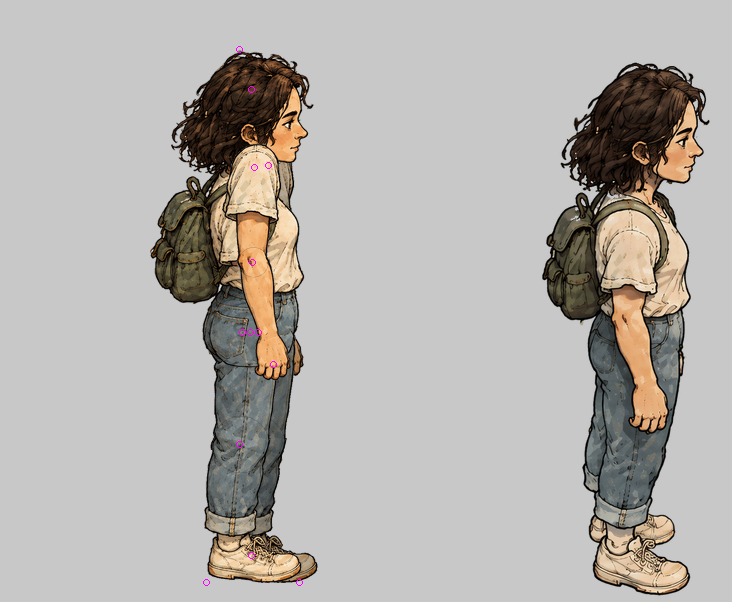
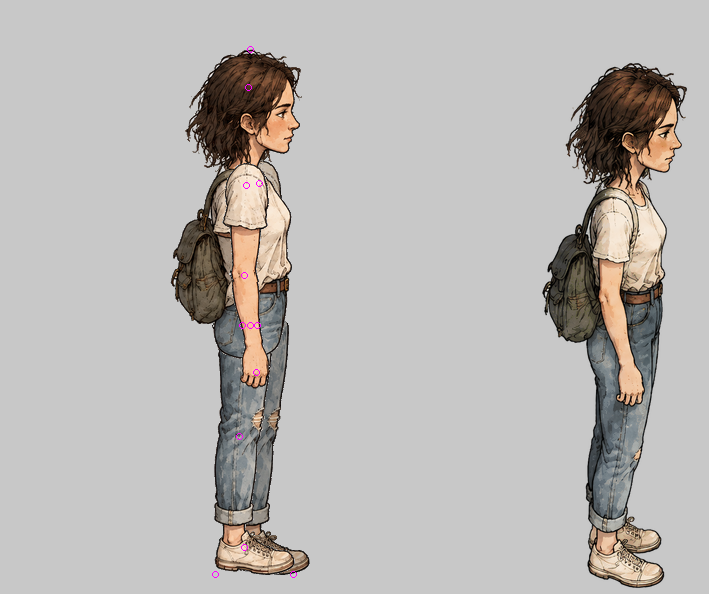
D-27: риг на взрослой героине G (лист частей G-2, ткань на плече; правки критика в промпте), склейки ядро | Seedance D-25; Polza 12 ₽ всего

Changed region(s): [[0.1862, 0.0606, 0.4344, 0.9697], [0.7447, 0.0909, 0.9929, 1.0]]

diff --git a/tools/art/d27_prompts.py b/tools/art/d27_prompts.py
@@ -14,6 +14,7 @@ from style import STYLE, BG_GREY  # noqa: E402
 
 # D-24b: героиня взрослая, вариант G (README «Героиня взрослая»), плюс три правки независимого критика к следующему набору (координатор,
 # 2026-10-09): футболка заправлена только спереди, тёмные почти чёрно-каштановые волнистые волосы до плеч, голова прямо, плечи расслаблены.
+# Тело — с культей рукава из ткани: «без рукава» GPT рисует голое плечо, и на махе руки оно читается дырой (D-27, лист G-1).
 WHO = ('the SAME young adult woman as in the reference image — about 20 years old, slender, adult proportions (head-to-height about 1:4.7), '
        'a narrow oval adult face with a defined jaw and cheekbones, small narrow eyes, not a child; '
        'dark brown, almost black-brown, loose wavy shoulder-length hair; '
@@ -26,8 +27,9 @@ PARTS = (
     'Strict side view facing right, seen from a slightly high angle like an isometric game (Don\'t Starve). '
     'Exactly three separate pieces in one horizontal row with very wide empty gaps between them; no piece touches another: '
     '(1) LEFT — the BODY WITHOUT ARMS AND WITHOUT LEGS: head upright, chin level, relaxed shoulders; hair and face in profile, neck, the t-shirt torso with the backpack, '
-    'and the top of the jeans around the hips and seat, ending just below the hips in a clean rounded edge; the shoulder is whole and smooth with NO sleeve on it '
-    '(the sleeve belongs to the arm piece), no arm and no sleeve hole. '
+    'and the top of the jeans around the hips and seat, ending just below the hips in a clean rounded edge; the shoulder and the side of the chest are covered by the white t-shirt fabric — '
+    'a short t-shirt sleeve stub closed with fabric where the arm would join, NO bare skin on the shoulder, no arm and no hole. '
+    'The hair is dark brown, almost black-brown. '
     '(2) MIDDLE — ONE COMPLETE LEG standing perfectly straight and vertical: the jeans from the top of the thigh at the hip down to the rolled-up cuff, '
     'and the sneaker in side view with the toe pointing right, the sole flat and level. '
     '(3) RIGHT — ONE COMPLETE ARM hanging perfectly straight down: the short t-shirt sleeve at the top, the bare upper arm, the elbow, the forearm and a relaxed loose fist. '

diff --git a/tools/art/d27_sheets.py b/tools/art/d27_sheets.py
@@ -34,13 +34,20 @@ def label(img, text, size=16):
     return img
 
 
+VIDEO = SPR
+
+
 def video_frame(phase, n=12):
-    """Кадр видео-цикла D-25 по фазе пути (как BillboardSprite: 1 … N-1 на цикл; у героини 12 кадров side_1..12)."""
+    """Кадр видео-цикла D-25 по фазе пути (12 кадров side_1..12 героини D; после D-24b их нет в master — `--video-dir`,
+    достать: `git archive 7df35a62 ZeldaDaughter/Assets/Art/Sprites/heroine`)."""
     k = 1 + int(phase * n) % n
-    return Image.open(SPR / f'heroine_side_{k}.png').convert('RGBA')
+    return Image.open(VIDEO / f'heroine_side_{k}.png').convert('RGBA')
 
 
 def core(a):
+    global VIDEO
+    if a.video_dir:
+        VIDEO = pathlib.Path(a.video_dir)
     rig = json.loads(pathlib.Path(a.rig).read_text(encoding='utf-8'))
     atlas = np.array(Image.open(pathlib.Path(a.rig).with_name(rig['atlas']['file'])).convert('RGBA'))
     tr = json.loads(pathlib.Path(a.trace).read_text(encoding='utf-8'))
@@ -58,7 +65,7 @@ def core(a):
         pairs.append((r, vc))
     out = pathlib.Path(a.out)
     out.parent.mkdir(parents=True, exist_ok=True)
-    write(pairs, out, ('риг (ядро)', 'видео D-25'), a)
+    write(pairs, out, ('риг (ядро), героиня G', 'видео-кадры D-25 Seedance, героиня D'), a)
 
 
 def game(a):
@@ -111,6 +118,7 @@ def main():
     ap = argparse.ArgumentParser()
     sub = ap.add_subparsers(dest='cmd', required=True)
     c = sub.add_parser('core'); c.add_argument('--rig', required=True); c.add_argument('--trace', required=True); c.add_argument('--out', required=True)
+    c.add_argument('--video-dir', default='', help='кадры бега Seedance D-25 (heroine_side_1..12.png)')
     g = sub.add_parser('game'); g.add_argument('--dir', required=True); g.add_argument('--out', required=True)
     for p in (c, g):
         p.add_argument('--fps', type=float, default=30); p.add_argument('--zoom', type=int, default=1); p.add_argument('--strip', type=int, default=8)

diff --git a/docs/demo/budget.md b/docs/demo/budget.md
@@ -5,7 +5,7 @@
 | Дата, время | Остаток, ₽ | Источник |
 |---|---|---|
 | 2026-10-08 20:56 | 51,17 | `polza.py balance` |
-| 2026-10-08 23:24 | 25,65 → 21,65 после D-27 | `polza.py balance` (D-27, до своей генерации) |
+| 2026-10-08 23:24 | 25,65 (до D-27; D-27 потратил 12) | `polza.py balance` |
 
 | Задача | План, ₽ | Факт, ₽ | Путь «0 ₽» |
 |---|---|---|---|
@@ -16,6 +16,6 @@
 | D-25 пилот | ≤ 130 | 38,2 | Wan 2.2 5B на ПК (вялый цикл, 1 из 2) |
 | D-25 полный набор (героиня 720p + жители/звери 480p) | ≈ 840 | — | Wan на ПК ≈ 4 ч GPU (качество ниже) |
 | Пилот «уголок f1» (если D-22b не пройдёт) | ≈ 84–105 | — | Klein на ПК |
-| D-27 пилот вырезной анимации (лист частей героини, бок) | ≤ 16 | 4 (GPT Image 2.5 flare 1K, 1 лист, 1-й заход) | Klein 4B на ПК, 3 сида (≈ 40 с видеокарты): ни один лист не дал тела без рук — для вырезки не годится |
+| D-27 пилот вырезной анимации (лист частей героини, бок) | ≤ 16 | 12 (GPT Image 2.5 flare 1K, 3 листа по 4 ₽: героиня D; G-1 — голое плечо; G-2 — принят) | Klein 4B на ПК, 3 сида (≈ 40 с видеокарты): ни один лист не дал тела без рук — для вырезки не годится |
 
 **Автор, 2026-10-08 23:30: «Это дорого, я не готов на такие траты»** (смета ≈ 1300 ₽). Решение координатора: основной путь — бесплатный на ПК (D-25c: FramePack / Wan 2.2 14B / Wan-Animate / LTX — пилот против облачного эталона); мир — рисованные объекты через Klein на ПК (0 ₽). Облако — только остаток ≈ 50 ₽ на D-24b и точечные кадры; если локальный путь не пройдёт — минимальная смета «только героиня 480p» ≈ 150 ₽, жители и звери на старых 3 кадрах.
